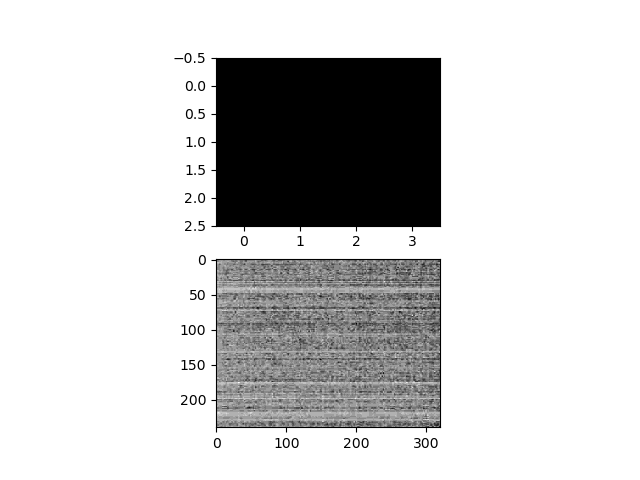
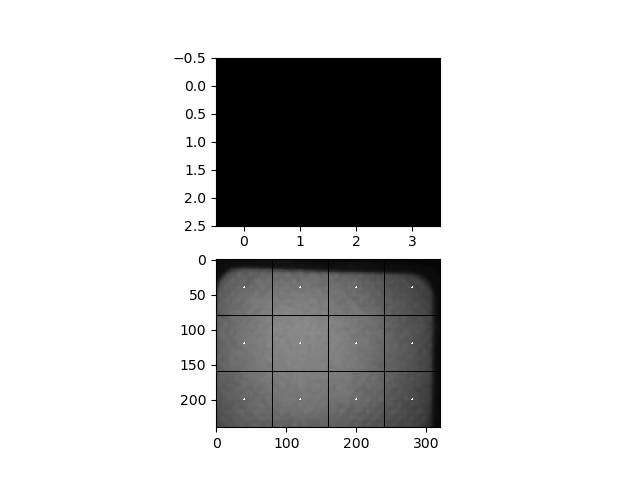
added script for area

Changed region(s): [[0.3125, 0.5312, 0.6875, 0.9062]]

diff --git a/src/process.py b/src/process.py
@@ -7,6 +7,8 @@ import serial
 from PIL import Image as PILImage
 import matplotlib.pyplot as plt
 
+import cv2
+
 
 class OpenMVCamRead:
 
@@ -21,7 +23,7 @@ class OpenMVCamRead:
         self.port.reset_input_buffer()
         self.port.reset_output_buffer()
 
-        self.initial_matrix = None
+        self.initial_matrix = np.zeros((3,4), dtype=np.float64)
 
     def read(self):
         snap = 'snap'
@@ -50,28 +52,71 @@ class OpenMVCamRead:
 
         print(len(list_))
 
+        # list_ = [0,0,0,0,0,0,0,0,0,0,0,0]
+
         return image, list_
 
-    def intialize(self, list_):
-        self.initial_matrix = (np.array(list_)).reshape((4,3)).transpose()
+    def plot_mesh(self, image):
+        cell_size = 80 
+        numCRows = image.shape[0]// cell_size  
+        numCColumns = image.shape[1]// cell_size
+        # print("Size of circle grid:", numCRows, "X", numCColumns)
+
+        # centers list
+        CCenterList = [(40+c*(80), 40+r*(80)) for c in range(numCColumns) for r in range(numCRows)]
+        # print(CCenterList)
+
+        # visulaization
+        for c in CCenterList:
+          image = cv2.circle(image, c, 1, (255, 0, 0), -1)
+          image = cv2.rectangle(image, (c[0]-40, c[1]-40), (c[0]+40, c[1]+40), (0, 255, 0), 1)
+
+        return image
 
 
-    def store(self, image, list_):
-
+    def intialize(self, image, list_):
         matrix = (np.array(list_)).reshape((4,3)).transpose()
-        deform_matrix = matrix # - self.initial_matrix
+        self.initial_matrix = matrix
+        figure, axis = plt.subplots(1, 1)
+
+        image = self.plot_mesh(image)
+
+        axis.imshow(image,cmap='gray')
+        plt.savefig("original_store.png")
+        # plt.savefig('/home/tejal/catkin_ws/src/openmv_cam/TestDataset/store00.png')
+        return self.initial_matrix
+
+
+    def store(self, image, list_, count):
+        matrix = (np.array(list_)).reshape((4,3)).transpose() 
+        deform_matrix = matrix - self.initial_matrix
+        print("\n Difference pixel count:\n")
+        print(deform_matrix)
         figure, axis = plt.subplots(2, 1)
-        axis[0].imshow(deform_matrix, cmap='gray', vmin=0, vmax=320)
+        axis[0].imshow(deform_matrix, cmap='gray', vmin=0, vmax=1000)
+        image = self.plot_mesh(image)
         axis[1].imshow(image,cmap='gray')
-        plt.savefig('store.png')
+        plt.savefig("store.png")
+        # name = "/home/tejal/catkin_ws/src/openmv_cam/TestDataset/store"+str(count)+".png"
+        # plt.savefig(name)
+
+        figure1, axis1 = plt.subplots(1, 1)
+
+        axis1.imshow(image,cmap='gray')
+        plt.savefig("storeimg.png")
 
 
 if __name__ == '__main__':
     instance = OpenMVCamRead()
 
-    # image, list_ = instance.read()
-    # instance.initial_matrix = instance.intialize(list_)
+    key_input = input("Initialize?")
 
+    if key_input.lower()=="y":
+        image, list_ = instance.read()
+        instance.initial_matrix = instance.intialize(image, list_)
+
+    imgCount = 1
     while (True):
         image, list_ = instance.read()
-        instance.store(image, list_)
+        instance.store(image, list_, imgCount)
+        imgCount+=1
